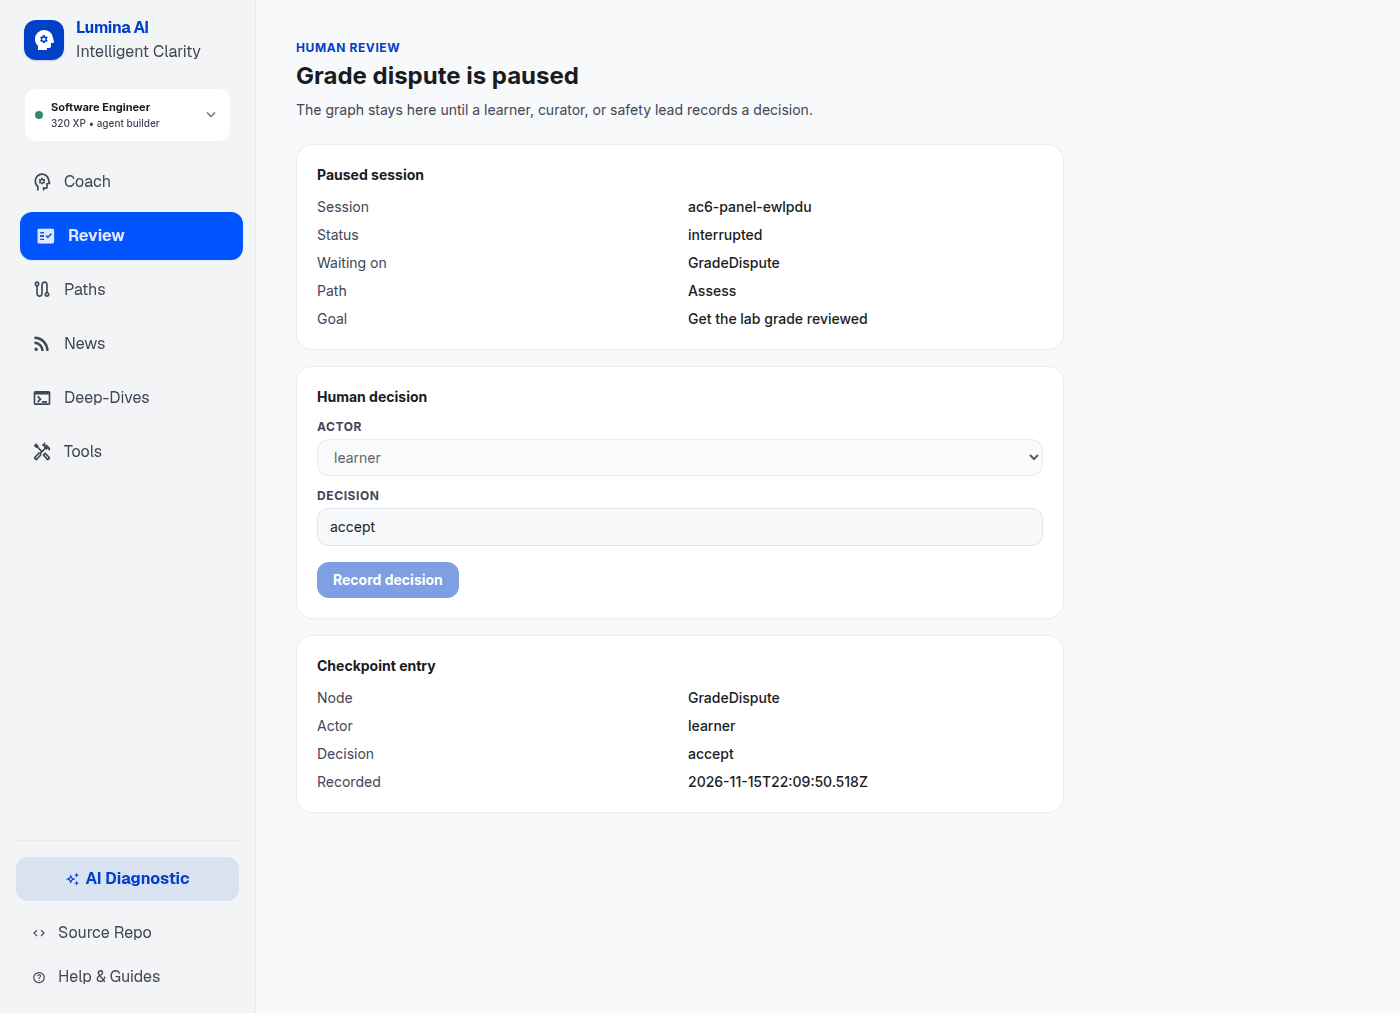
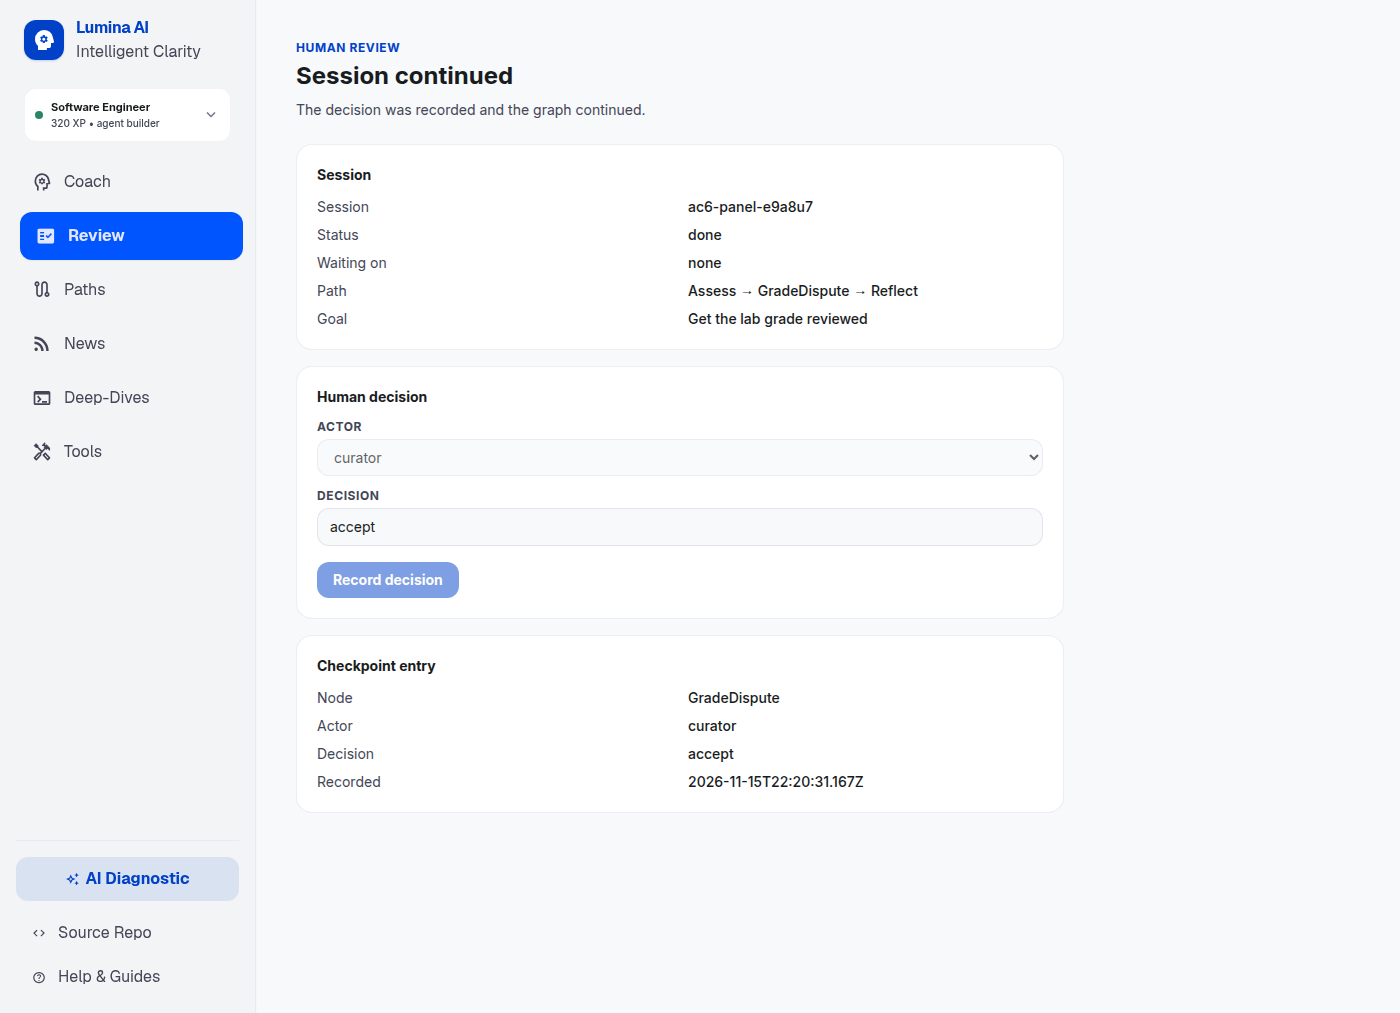
Restrict each HITL node to its own actor.
A learner cannot decide their own grade dispute. GradeDispute and SkillMapEdit take a curator, and SafetyEscalation takes a safety lead. The review panel offers only that actor and shows the session after the graph continues.

diff --git a/server/tests/ac6_hitl.test.ts b/server/tests/ac6_hitl.test.ts
@@ -125,18 +125,18 @@ describe("ac6 hitl", { concurrency: false }, () => {
       });
       const paused = await service.run(initial, [], sessionId);
       assert.equal(paused.status, "interrupted");
-      const done = await service.hitl(sessionId, { decision: "accept", actor: "learner" });
+      const done = await service.hitl(sessionId, { decision: "accept", actor: "curator" });
       assert.equal(done.status, "done");
       const entry = done.state.hitl_log.at(-1);
       assert.equal(entry?.node, "GradeDispute");
       assert.equal(entry?.decision, "accept");
-      assert.equal(entry?.actor, "learner");
+      assert.equal(entry?.actor, "curator");
       assert.match(entry?.at ?? "", /^\d{4}-\d{2}-\d{2}T/);
       assert.equal(done.state.path.at(-1), "Reflect");
       assert.equal(done.edges.includes("e-sup-reflect-dispute"), true);
       const history = await service.history(sessionId);
       const recorded = history.map((item) => item.state?.hitl_log.at(-1)).find((row) => row?.decision === "accept");
-      assert.equal(recorded?.actor, "learner");
+      assert.equal(recorded?.actor, "curator");
       assert.equal(recorded?.at, entry?.at);
     } finally {
       useRouterForTests(null);
@@ -159,8 +159,8 @@ describe("ac6 hitl", { concurrency: false }, () => {
       assert.equal(paused.status, "interrupted");
       await assert.rejects(() => service.resume(sessionId, []), /human decision/);
       await assert.rejects(() => service.hitl(sessionId, { decision: "", actor: "learner" }), /decision, actor/);
-      await assert.rejects(() => service.hitl(sessionId, { decision: "accept", actor: "stranger" }), /not allowed/);
-      assert.throws(() => assertHitlDecision({ decision: "accept" }), /decision, actor/);
+      await assert.rejects(() => service.hitl(sessionId, { decision: "accept", actor: "stranger" }), /not allowed for GradeDispute/);
+      assert.throws(() => assertHitlDecision({ decision: "accept" }, "GradeDispute"), /decision, actor/);
       const still = await service.step(sessionId);
       assert.equal(still.status, "interrupted");
       assert.equal(still.state.hitl_log.length, 0);
@@ -169,6 +169,77 @@ describe("ac6 hitl", { concurrency: false }, () => {
       service.close();
     }
   });
+
+  test("learner_cannot_decide_their_own_grade_dispute", async () => {
+    const checkpointer = new MemorySaver();
+    const service = new SessionService(compileCoachGraph({ checkpointer }), checkpointer);
+    const sessionId = "ac6-learner-dispute";
+    try {
+      const paused = await service.run(
+        learner({ session_id: sessionId, path: ["Assess"], disputed: true, fingerprints: ["once"] }),
+        [],
+        sessionId,
+      );
+      assert.equal(paused.status, "interrupted");
+      assert.equal(paused.next[0], "GradeDispute");
+      await assert.rejects(() => service.hitl(sessionId, { decision: "accept", actor: "learner" }), /not allowed for GradeDispute/);
+      const still = await service.step(sessionId);
+      assert.equal(still.status, "interrupted");
+      assert.equal(still.state.hitl_log.length, 0);
+      assert.equal(still.state.path.includes("GradeDispute"), false);
+    } finally {
+      service.close();
+    }
+  });
+
+  for (const item of [
+    { node: "GradeDispute", flag: "disputed", wrong: "learner", right: "curator" },
+    { node: "SkillMapEdit", flag: "skill_map_edit", wrong: "safety-lead", right: "curator" },
+    { node: "SafetyEscalation", flag: "loop_detected", wrong: "curator", right: "safety-lead" },
+  ] as const) {
+    test(`${item.node}_rejects_${item.wrong}_and_accepts_${item.right}`, async () => {
+      const finishing: Provider = {
+        id: "fake",
+        async complete(request) {
+          const payload = request.prompt.includes("node: Reflect") ? { session_complete: true } : { note: "ok" };
+          return { text: JSON.stringify(payload), tokens_in: 4, tokens_out: 2, latency_ms: 1 };
+        },
+      };
+      useRouterForTests(createRouter({ provider: finishing }));
+      const checkpointer = new MemorySaver();
+      const service = new SessionService(compileCoachGraph({ checkpointer }), checkpointer);
+      const sessionId = `ac6-actor-${item.node}`;
+      try {
+        const paused = await service.run(
+          learner({
+            session_id: sessionId,
+            path: ["Assess"],
+            fingerprints: ["once"],
+            [item.flag]: true,
+            ...(item.node === "SafetyEscalation" ? { loop_cleared: false } : {}),
+          }),
+          [],
+          sessionId,
+        );
+        assert.equal(paused.next[0], item.node);
+        await assert.rejects(
+          () => service.hitl(sessionId, { decision: "accept", actor: item.wrong }),
+          new RegExp(`not allowed for ${item.node}`),
+        );
+        const still = await service.step(sessionId);
+        assert.equal(still.status, "interrupted");
+        assert.equal(still.state.hitl_log.length, 0);
+        const done = await service.hitl(sessionId, { decision: "accept", actor: item.right });
+        assert.equal(done.state.hitl_log.at(-1)?.actor, item.right);
+        assert.equal(done.state.hitl_log.at(-1)?.node, item.node);
+        assert.equal(done.state.path.includes(item.node), true);
+        assert.notEqual(done.status, "interrupted");
+      } finally {
+        useRouterForTests(null);
+        service.close();
+      }
+    });
+  }
 
   test("repeated_dispute_cycle_ends_within_the_bound", async () => {
     const echoing: Provider = {
@@ -196,7 +267,7 @@ describe("ac6 hitl", { concurrency: false }, () => {
       });
       const paused = await service.run(initial, [], sessionId);
       assert.equal(paused.status, "interrupted");
-      const done = await service.hitl(sessionId, { decision: "accept", actor: "learner" });
+      const done = await service.hitl(sessionId, { decision: "accept", actor: "curator" });
       assert.equal(done.status, "done");
       assert.equal(done.state.path.filter((node) => node === "GradeDispute").length, DISPUTE_VISIT_BOUND);
       assert.ok(done.state.step <= 43);

diff --git a/src/components/AICoach/HitlPausePanel.tsx b/src/components/AICoach/HitlPausePanel.tsx
@@ -3,6 +3,16 @@ import React, { useEffect, useState } from "react";
 const API = "/api";
 const SESSION_ID = `ac6-panel-${Math.random().toString(36).slice(2, 8)}`;
 
+const PERMITTED_ACTORS: Record<string, readonly string[]> = {
+  GradeDispute: ["curator"],
+  SkillMapEdit: ["curator"],
+  SafetyEscalation: ["safety-lead"],
+};
+
+function actorsFor(node: string | undefined): readonly string[] {
+  return (node && PERMITTED_ACTORS[node]) || [];
+}
+
 interface PausedSession {
   status: string;
   session_id: string;
@@ -48,7 +58,7 @@ function openPausedSession(): Promise<PausedSession> {
 export const HitlPausePanel: React.FC = () => {
   const [paused, setPaused] = useState<PausedSession | null>(null);
   const [decision, setDecision] = useState("accept");
-  const [actor, setActor] = useState("learner");
+  const [actor, setActor] = useState("curator");
   const [entry, setEntry] = useState<CheckpointEntry | null>(null);
   const [error, setError] = useState<string | null>(null);
   const [busy, setBusy] = useState(false);
@@ -57,7 +67,10 @@ export const HitlPausePanel: React.FC = () => {
     let live = true;
     openPausedSession()
       .then((session) => {
-        if (live) setPaused(session);
+        if (!live) return;
+        setPaused(session);
+        const allowed = actorsFor(session.next[0]);
+        if (allowed[0]) setActor(allowed[0]);
       })
       .catch((reason: unknown) => {
         if (live) setError(reason instanceof Error ? reason.message : String(reason));
@@ -78,8 +91,9 @@ export const HitlPausePanel: React.FC = () => {
         headers: { "content-type": "application/json" },
         body: JSON.stringify({ decision, actor }),
       });
-      const body = (await response.json()) as { error?: string };
+      const body = (await response.json()) as PausedSession & { error?: string };
       if (!response.ok) throw new Error(body.error ?? `decision rejected (${response.status})`);
+      setPaused(body);
       const history = (await (await fetch(`${API}/sessions/${paused.session_id}/checkpoints`)).json()) as CheckpointRow[];
       const recorded = history.map((row) => row.state?.hitl_log.at(-1)).find((row) => row?.decision === decision);
       if (!recorded) throw new Error("checkpoint has no decision entry");
@@ -91,19 +105,26 @@ export const HitlPausePanel: React.FC = () => {
     }
   };
 
+  const waitingOn = paused?.status === "interrupted" ? paused.next[0] : undefined;
+  const actorChoices = actorsFor(waitingOn ?? entry?.node ?? paused?.next[0]);
+
   return (
     <section className="h-full overflow-y-auto bg-surface p-6 md:p-10" data-testid="hitl-panel">
       <header className="mb-6 max-w-3xl">
         <p className="text-xs font-bold uppercase tracking-wider text-primary">Human review</p>
-        <h2 className="mt-1 text-2xl font-bold text-on-surface">Grade dispute is paused</h2>
+        <h2 className="mt-1 text-2xl font-bold text-on-surface">
+          {waitingOn ? `${waitingOn} is paused` : "Session continued"}
+        </h2>
         <p className="mt-2 text-sm text-on-surface-variant">
-          The graph stays here until a learner, curator, or safety lead records a decision.
+          {waitingOn
+            ? `The graph stays here until a ${actorChoices.join(" or ")} records a decision.`
+            : "The decision was recorded and the graph continued."}
         </p>
       </header>
 
       <div className="grid max-w-3xl gap-4">
         <article className="rounded-2xl border border-outline-variant/30 bg-surface-container-lowest p-5" data-testid="paused-session">
-          <h3 className="text-sm font-bold text-on-surface">Paused session</h3>
+          <h3 className="text-sm font-bold text-on-surface">{waitingOn ? "Paused session" : "Session"}</h3>
           {paused ? (
             <dl className="mt-3 grid grid-cols-2 gap-x-4 gap-y-2 text-sm">
               <dt className="text-on-surface-variant">Session</dt>
@@ -134,9 +155,11 @@ export const HitlPausePanel: React.FC = () => {
             onChange={(event) => setActor(event.target.value)}
             disabled={Boolean(entry)}
           >
-            <option value="learner">learner</option>
-            <option value="curator">curator</option>
-            <option value="safety-lead">safety-lead</option>
+            {actorChoices.map((name) => (
+              <option key={name} value={name}>
+                {name}
+              </option>
+            ))}
           </select>
           <label className="mt-3 block text-xs font-bold uppercase tracking-wider text-on-surface-variant" htmlFor="hitl-decision">
             Decision

diff --git a/server/graph/hitl.ts b/server/graph/hitl.ts
@@ -7,9 +7,14 @@ export interface HitlDecision {
   actor: string;
 }
 
-const HITL_ACTORS = new Set(["learner", "curator", "safety-lead"]);
+/** Who may decide a paused node. PRD r2 §5 names the humans; the map assigns the declared nodes. */
+export const HITL_ACTORS_BY_NODE: Record<string, string> = {
+  GradeDispute: "curator",
+  SkillMapEdit: "curator",
+  SafetyEscalation: "safety-lead",
+};
 
-export function assertHitlDecision(value: unknown): HitlDecision {
+export function parseHitlDecision(value: unknown): HitlDecision {
   if (!value || typeof value !== "object") {
     throw new Error("HITL resume requires {decision, actor}");
   }
@@ -20,10 +25,15 @@ export function assertHitlDecision(value: unknown): HitlDecision {
   if (typeof record.actor !== "string" || record.actor.length === 0) {
     throw new Error("HITL resume requires {decision, actor}");
   }
-  if (!HITL_ACTORS.has(record.actor)) {
-    throw new Error(`HITL actor is not allowed: ${record.actor}`);
-  }
   return { decision: record.decision, actor: record.actor };
+}
+
+export function assertHitlDecision(value: unknown, nodeId: string): HitlDecision {
+  const decision = parseHitlDecision(value);
+  if (HITL_ACTORS_BY_NODE[nodeId] !== decision.actor) {
+    throw new Error(`HITL actor is not allowed for ${nodeId}: ${decision.actor}`);
+  }
+  return decision;
 }
 
 export function makeHitl(nodeId: "GradeDispute" | "SkillMapEdit" | "SafetyEscalation") {
@@ -33,7 +43,7 @@ export function makeHitl(nodeId: "GradeDispute" | "SkillMapEdit" | "SafetyEscala
       session_id: state.learner.session_id,
       reason: nodeId,
     });
-    const decision = assertHitlDecision(raw);
+    const decision = assertHitlDecision(raw, nodeId);
     const update = await runWorker(nodeId, state);
     const learner = LearnerStateSchema.parse({
       ...update.learner,

diff --git a/server/api/app.ts b/server/api/app.ts
@@ -2,7 +2,7 @@ import { randomUUID } from "node:crypto";
 import { Hono } from "hono";
 import { createCheckpointer } from "../checkpoint/index.js";
 import { loadScenario, stateFromScenario } from "../evals/scenarios.js";
-import { assertHitlDecision } from "../graph/hitl.js";
+import { parseHitlDecision } from "../graph/hitl.js";
 import { SessionService } from "../graph/session.js";
 import { loadSpecWithHash } from "../graph/spec/load.js";
 import { logsForSession } from "../telemetry/node_log.js";
@@ -57,14 +57,14 @@ export function createApp(options: AppOptions = {}): Hono {
 
   app.post("/sessions/:id/resume", async (c) => {
     const body = await readJson(c);
-    const decisions = Array.isArray(body.decisions) ? body.decisions.map((item) => assertHitlDecision(item)) : [];
+    const decisions = Array.isArray(body.decisions) ? body.decisions.map((item) => parseHitlDecision(item)) : [];
     return c.json(await service.resume(c.req.param("id"), decisions));
   });
 
   app.post("/sessions/:id/replay", async (c) => {
     const body = await readJson(c);
     if (typeof body.from !== "string" || body.from.length === 0) return c.json({ error: "from is required" }, 400);
-    const decisions = Array.isArray(body.decisions) ? body.decisions.map((item) => assertHitlDecision(item)) : [];
+    const decisions = Array.isArray(body.decisions) ? body.decisions.map((item) => parseHitlDecision(item)) : [];
     return c.json(await service.replay(c.req.param("id"), body.from, decisions));
   });
 
@@ -76,7 +76,7 @@ export function createApp(options: AppOptions = {}): Hono {
   });
 
   app.post("/sessions/:id/hitl", async (c) => {
-    const decision = assertHitlDecision(await c.req.json());
+    const decision = parseHitlDecision(await c.req.json());
     return c.json(await service.hitl(c.req.param("id"), decision));
   });
 

diff --git a/server/graph/session.ts b/server/graph/session.ts
@@ -107,6 +107,7 @@ export class SessionService {
       if (snap.interrupts.length > 0) {
         const decision = queue.shift();
         if (!decision) return this.toResult(threadId, snap, "interrupted", resumedNode, sessionId);
+        assertHitlDecision(decision, snap.next[0] ?? "");
         await this.invoke(threadId, new Command({ resume: decision }));
         const after = await this.readSnap(threadId);
         stampCheckpoint(sessionId, after.checkpoint_id ?? "unknown");
@@ -135,10 +136,10 @@ export class SessionService {
   }
 
   async hitl(threadId: string, decision: HitlDecision): Promise<RunResult> {
-    assertHitlDecision(decision);
     const before = await this.readSnap(threadId);
     if (!before.learner) throw new Error(`session not found: ${threadId}`);
     if (before.interrupts.length === 0) throw new Error("session is not waiting on a human decision");
+    assertHitlDecision(decision, before.next[0] ?? "");
     return runContext.run({ runId: randomUUID() }, () =>
       this.continueUntil(threadId, [decision], null, before.learner!.session_id),
     );

diff --git a/server/tests/hitl.test.ts b/server/tests/hitl.test.ts
@@ -8,7 +8,7 @@ import { loadScenario, stateFromScenario } from "../evals/scenarios.js";
 
 describe("hitl", { concurrency: false }, () => {
   test("graph_pauses_at_interrupt_and_resumes_only_with_decision", async () => {
-    assert.throws(() => assertHitlDecision({}), /decision, actor/);
+    assert.throws(() => assertHitlDecision({}, "GradeDispute"), /decision, actor/);
     const checkpointer = new MemorySaver();
     const service = new SessionService(compileCoachGraph({ checkpointer }), checkpointer);
     const scenario = loadScenario("SCN-0005");
@@ -24,7 +24,7 @@ describe("hitl", { concurrency: false }, () => {
 
     await assert.rejects(() => service.resume(sessionId), /human decision/);
 
-    const done = await service.hitl(sessionId, { decision: "accept", actor: "learner" });
+    const done = await service.hitl(sessionId, { decision: "accept", actor: "curator" });
     assert.equal(done.status, "done");
     assert.deepEqual(done.state.path, scenario.expected_path);
     assert.equal(done.state.hitl_log.at(-1)?.decision, "accept");

diff --git a/server/evals/run.ts b/server/evals/run.ts
@@ -153,7 +153,7 @@ async function runNodeFixtures(): Promise<{ pass: number; total: number; failure
         const node = spec.nodes.find((item) => item.id === fixture.node);
         if (!node || node.kind !== "hitl" || node.type !== "interrupt") throw new Error(`${fixture.node} is not an interrupt`);
         if (!NODE_IMPLS[fixture.node]) throw new Error(`missing impl ${fixture.node}`);
-        if (fixture.expect_decision) assertHitlDecision(fixture.expect_decision);
+        if (fixture.expect_decision) assertHitlDecision(fixture.expect_decision, fixture.node);
         continue;
       }
       const provider: Provider = {

diff --git a/docs/phase1/known-limits.md b/docs/phase1/known-limits.md
@@ -1,0 +1,5 @@
+# Phase 1 known limits
+
+In Phase 1 the HITL actor is self-asserted in the request body and is not authenticated. AC-11 will add authentication.
+
+The per-node actors are still checked. A learner cannot decide their own grade dispute. GradeDispute and SkillMapEdit accept a curator. SafetyEscalation accepts a safety lead. The check is the actor string on the decision, not a signed-in user.
